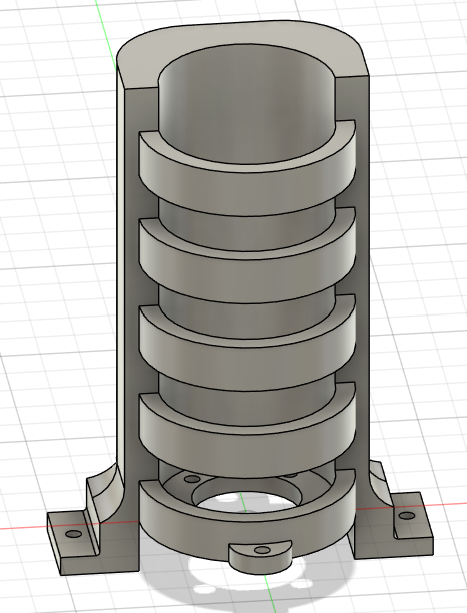
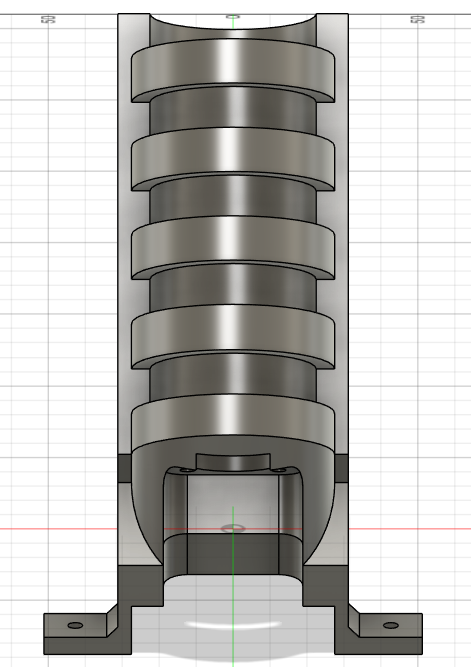
Stuurmechanisme met DC-Motor

diff --git a/Inrichting auto/DC-Motor/readme.md b/Inrichting auto/DC-Motor/readme.md
@@ -1,4 +1,4 @@
-# DC-motor Houder – Stuurmechanisme met DC-Motor
+# Stuurmechanisme met DC-Motor
 
 Voor de auto met joystickbesturing gebruiken we een **DC-Motor** om de **voorwielen te laten draaien**.  
 Om een betrouwbare en precieze werking te garanderen, moest deze motor **stevig en netjes bevestigd** worden op het chassis van de auto.  
@@ -10,40 +10,53 @@ Hieronder volgt een overzicht van het volledige ontwerpproces, van plaatsbepalin
 
 Eerst hebben we onderzocht **waar op de auto** de DC-Motor het best gemonteerd kon worden.  
 We kozen de locatie **boven het gat waar normaal de stalen stuurstang** doorheen loopt. Dit is de mechanische verbinding die oorspronkelijk voor de besturing zorgde.  
-Op deze plek is **voldoende ruimte** om de DC-Motor **rechtop te plaatsen**, wat ook zorgt voor een optimale krachtsoverdracht op het stuurmechanisme.
+Op deze plek is **voldoende ruimte** om de DC-Motor **in dezelfde hoek** als de stang te plaatsen, wat dus zorgt voor een optimale krachtsoverdracht op het stuurmechanisme.
 
 <p align="center">
   <img src="./Afbeelding/auto.jpg" alt="Plaats van de DC-Motor op de auto" width="350">
 </p>
-
----
+Hier zie je op de foto het gat (waar de stang doorheen loopt) waarop we de DC-motor bovenop zullen bevestigen.
 
 ### Opmeten en voorbereiden
 
-Daarna hebben we de gekozen positie **nauwkeurig uitgemeten** en op papier overgezet.  
+Daarna hebben we de gekozen positie **uitgemeten** en op papier overgezet.  
 Zo konden we bepalen **hoe groot de DC-Motor houder mocht zijn** en controleren of er **voldoende plaats** was in de omgeving van het stuurmechanisme.  
 Bij deze stap hielden we rekening met de **afmetingen van de DC-Motor zelf** en eventuele ruimte voor bevestigingsvijzen.
 
 <p align="center">
-  <img src="./Afbeelding/sketch.jpeg" alt="Papieren schets van de DC-Motor positie" width="300">
+  <img src="./Afbeelding/sketch.jpeg" alt="Papieren schets van de DC-Motor positie" width="280">
   <img src="./Afbeelding/sketch_servo.jpg" alt="Afmetingen van de DC-Motor op schets" width="700">
 </p>
 
----
 
 ### Ontwerp in Fusion 360
 
-Na de voorbereidende metingen hebben we in **Fusion 360** een **3D-ontwerp** van de DC-Motor houder gemaakt.  
-Het model is zo ontworpen dat de **DC-Motor perfect in de houder past**, met een stevige klemvormige passing die voorkomt dat de motor beweegt tijdens gebruik.  
-Daarnaast bevat het ontwerp **montagegaten van 4 mm diameter**, waarmee de houder met bouten of vijzen **direct op de auto kan worden bevestigd**. Ook kan de DC-Motor zelf nog bevestigd worden aan de houder via 4 montagegaten vanonder. 
+Om de motor te kunnen bevesitgen op de auto hebben we gekozen om hier voor een **3D-ontwerp** te maken in **Fusion 360**. 
+
+Het model is zo ontworpen dat de **DC-Motor perfect in de houder past** en via 4 montage gaten (M4) vanonder kan vast gemaakt worden aan de houder zelf. Dit voorkomt dat de motor beweegt tijdens het gebruik.  
+Daarnaast bevat het ontwerp nog 3 **montagegaten van 4 mm diameter**, waarmee de houder met bouten **stevig op de auto kan worden bevestigd**.
+
+Het ontwerp is zo gemaakt dat de as exact in lijn staat met de originele stang, dus ook onder dezelfde hoek. Dit is bewust gedaan, omdat we de originele stang opnieuw gaan gebruiken.
 
 <p align="center">
-  <img src="./Afbeelding/front_v2.png" alt="DC-Motor houder - voorkant" width="300">
+  <img src="./Afbeelding/back_v2.png" alt="DC-Motor houder - voorkant" width="300">
   <img src="./Afbeelding/back_v2.png" alt="DC-Motor houder - achterkant" width="305">
   <img src="./Afbeelding/bottom_v2.png" alt="DC-Motor houder - onderkant" width="300">
 </p>
 
----
+### Verbinding met stuurmechanisme
+Wanneer de DC-motor eenmaal op de juiste positie is bevestigd via de printplaat, moet de motoras nog gekoppeld worden aan het stuurmechanisme. We maken hiervoor gebruik van de originele stang, omdat het uiteinde daarvan perfect past in de onderzijde van het stuurmechanisme. 
+
+<img src="./Afbeelding/Onderkant_auto.jpg" alt="DC-Motor houder - voorkant" width="285">
+
+Voor de verbinding tussen de motoras en de stang gebruiken we een flexibele assenkoppeling (Assen Koppeling flexibel Mot D25L30, 8/12 mm). Deze koppeling sluit aan de ene kant perfect aan op de 8 mm motoras en aan de andere kant op de 12 mm stang. Beide zijden kunnen stevig worden vastgezet met inbusbouten, waarvoor een 2 mm en 2,5 mm inbussleutel nodig is. 
+
+<p align="center">
+<img src="./Afbeelding/Assen-Koppelingen.webp" alt="DC-Motor houder - voorkant" width="285">
+<img src="./Afbeelding/Tussenstuk.jpg" alt="DC-Motor houder - voorkant" width="200">
+<p>
+
+De stang moest natuurlijk nog worden ingekort, omdat deze in de nieuwe configuratie veel minder lang hoeft te zijn. De stang is vanaf de bovenkant … ingekort. Hieronder zie je het complete eindresultaat van het aangepaste stuurmechanisme dat nu door de DC-motor wordt aangedreven.
 
 ### Resultaat
 ...
